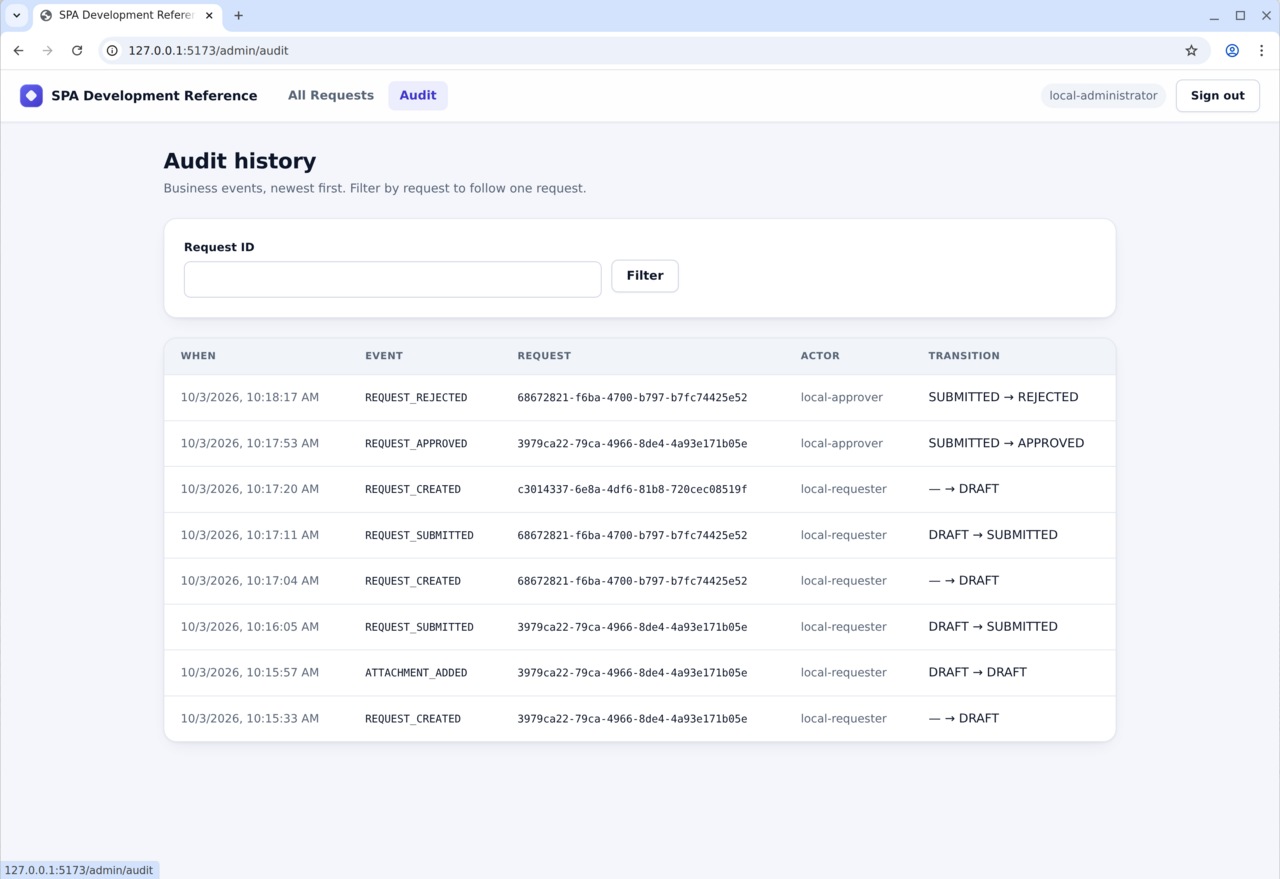
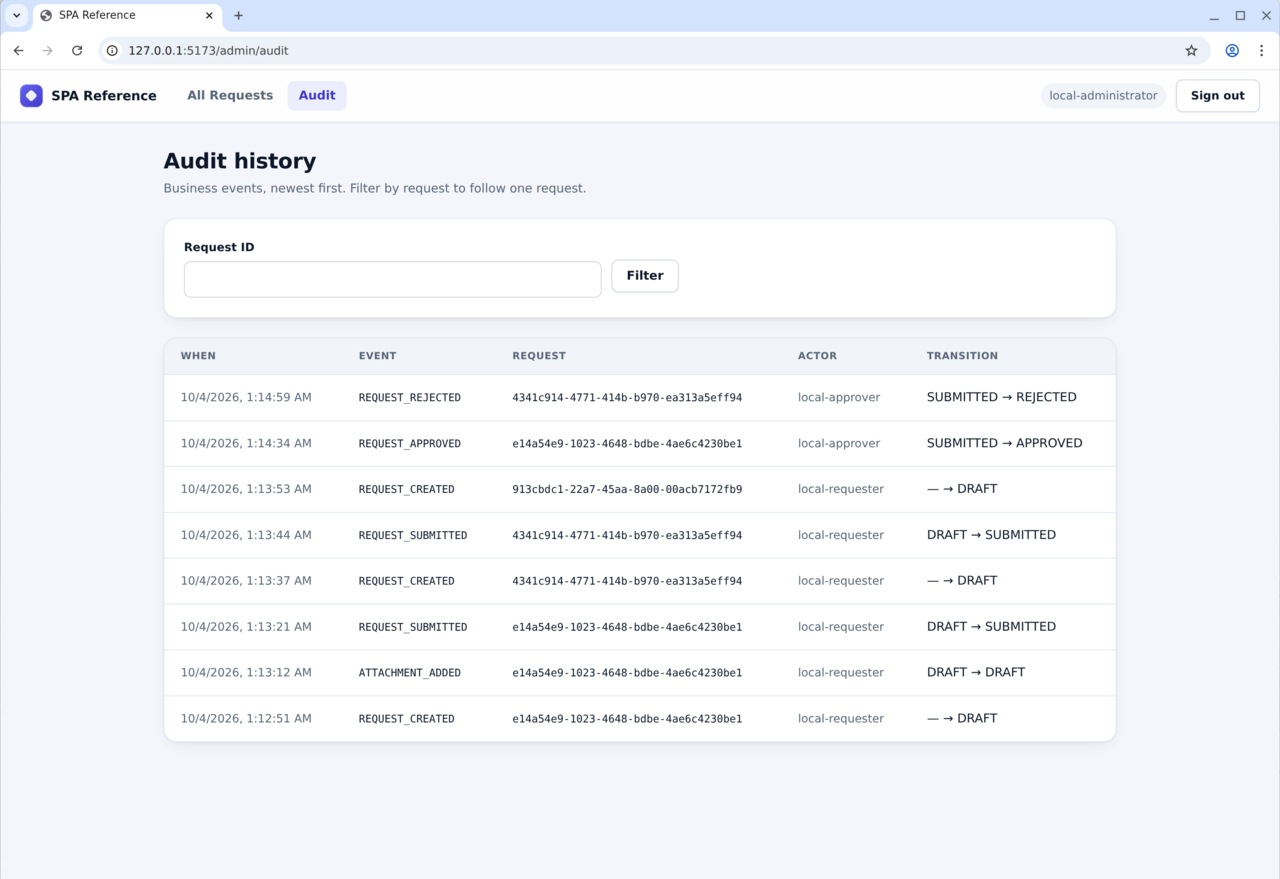
Rename the application display name to SPA Reference

diff --git a/frontend/src/app/App.tsx b/frontend/src/app/App.tsx
@@ -51,7 +51,7 @@ import { RequestNewPage } from '../features/requests/RequestNewPage.js';
 import { useAuth } from '../shared/auth/AuthProvider.js';
 import { LOCAL_DEMO_ROLES } from '../shared/auth/local-demo.js';
 
-const APP_TITLE = 'SPA Development Reference';
+const APP_TITLE = 'SPA Reference';
 
 const ROLE_SUMMARY: Readonly<Record<SessionRole, string>> = {
   Requester: 'Create and submit requests',

diff --git a/frontend/index.html b/frontend/index.html
@@ -23,7 +23,7 @@
   <head>
     <meta charset="UTF-8" />
     <meta name="viewport" content="width=device-width, initial-scale=1.0" />
-    <title>SPA Development Reference</title>
+    <title>SPA Reference</title>
   </head>
   <body>
     <div id="root"></div>
